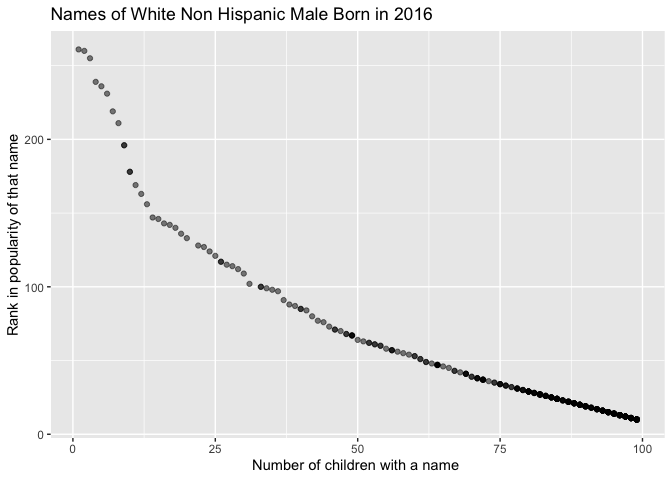
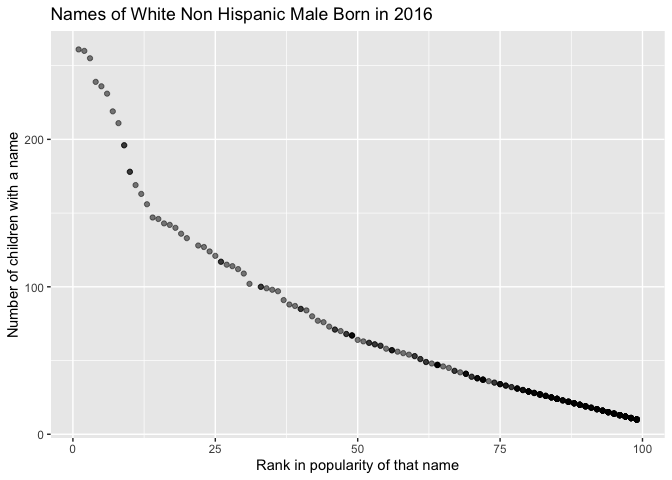
FInla edits

Changed region(s): [[0.375, 0.9375, 0.625, 1.0], [0.0, 0.2812, 0.0312, 0.7188]]

diff --git a/p8105_hw2_xw2757.md b/p8105_hw2_xw2757.md
@@ -234,8 +234,8 @@ wtnonhisp_2016 %>%
   geom_point(alpha = .5) + 
   labs(
     title = "Names of White Non Hispanic Male Born in 2016",
-    x = "Number of children with a name ",
-    y = "Rank in popularity of that name"
+    x = "Rank in popularity of that name",
+    y = "Number of children with a name"
   )
 
 wtnonhisp_2016_plot
